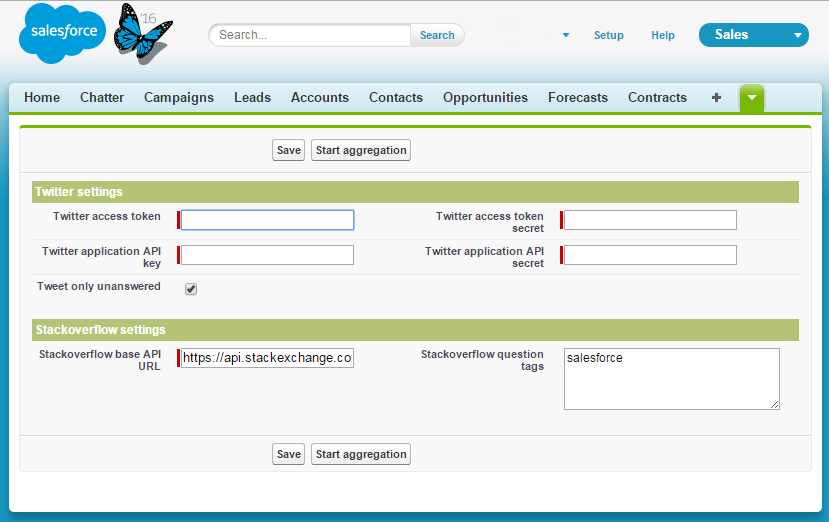
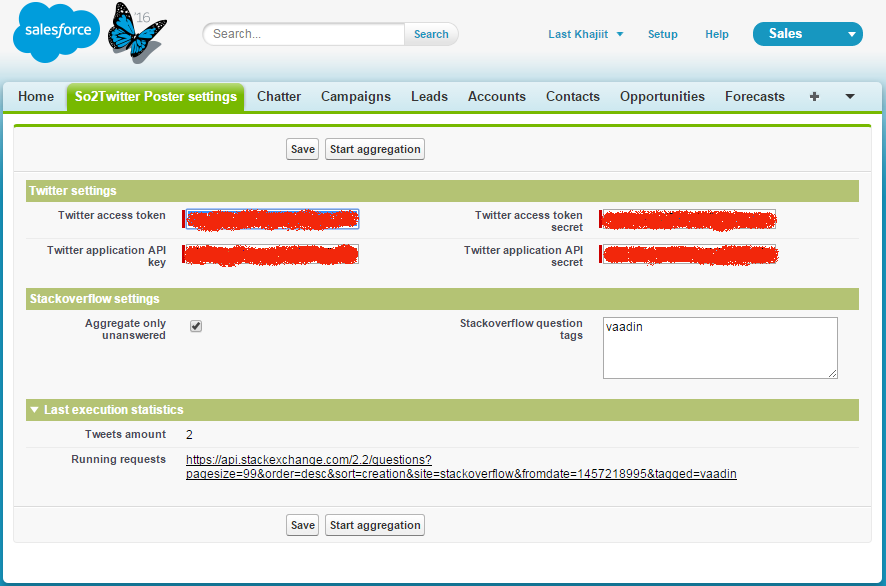
added previous execution statistics calculation, added filtering by last 24 hours, fixed exceptions related to settings update, updated readme and screenshot

diff --git a/README.md b/README.md
@@ -5,9 +5,11 @@
        src="https://raw.githubusercontent.com/afawcett/githubsfdeploy/master/src/main/webapp/resources/img/deploy.png">
 </a>
 
-[![release](https://img.shields.io/badge/release-v0.1-brightgreen.png?style=default)](https://github.com/last-khajiit/so2twitter-poster-bot/releases/latest) [![Build Status](https://travis-ci.org/last-khajiit/so2twitter-poster-bot.svg?branch=master)](https://travis-ci.org/last-khajiit/so2twitter-poster-bot) [![HitCount](https://hitt.herokuapp.com/last-khajiit/so2twitter-poster-bot.svg)](https://github.com/last-khajiit/so2twitter-poster-bot)
+[![release](https://img.shields.io/badge/release-v0.1-brightgreen.png?style=default)](https://github.com/last-khajiit/so2twitter-poster-bot/releases/latest) [![Build Status](https://travis-ci.org/last-khajiit/so2twitter-poster.svg?branch=master)](https://travis-ci.org/last-khajiit/so2twitter-poster) [![HitCount](https://hitt.herokuapp.com/last-khajiit/so2twitter-poster-bot.svg)](https://github.com/last-khajiit/so2twitter-poster-bot)
 
-Bot for posting new Stackoverflow questions to Twitter, created in Salesforce
+Bot for posting new Stackoverflow questions to Twitter, created in Salesforce.
+
+Bot aggregates Stackoverflow questions over the past 24 hours, and tweets their. You can note exact tags for questions and choose - should it look for only unanswered questions or not.
 
 ![Screenshot](settings-page.png)
 
@@ -18,9 +20,11 @@ Bot for posting new Stackoverflow questions to Twitter, created in Salesforce
 4. Go to Setup -> Develop -> Apex Classes and schedule "SO2TP_ScheduleTweetGenerator" class for daily execution
 
 ###ToDo
-1. Add validation for duplicate questions
-2. Add processing of all retrieved questions (not only first result page)
-3. Add statistics about previous job execution, exception validation, etc
+1. Add processing of all retrieved questions (not only first result page)
+2. Fix issue with multiple tags (future methods-related)
+3. Add an exception processing & validation
+4. Fix the issue with quotes in tweets
+
 
 
 *Feel free to make pull requests!*
